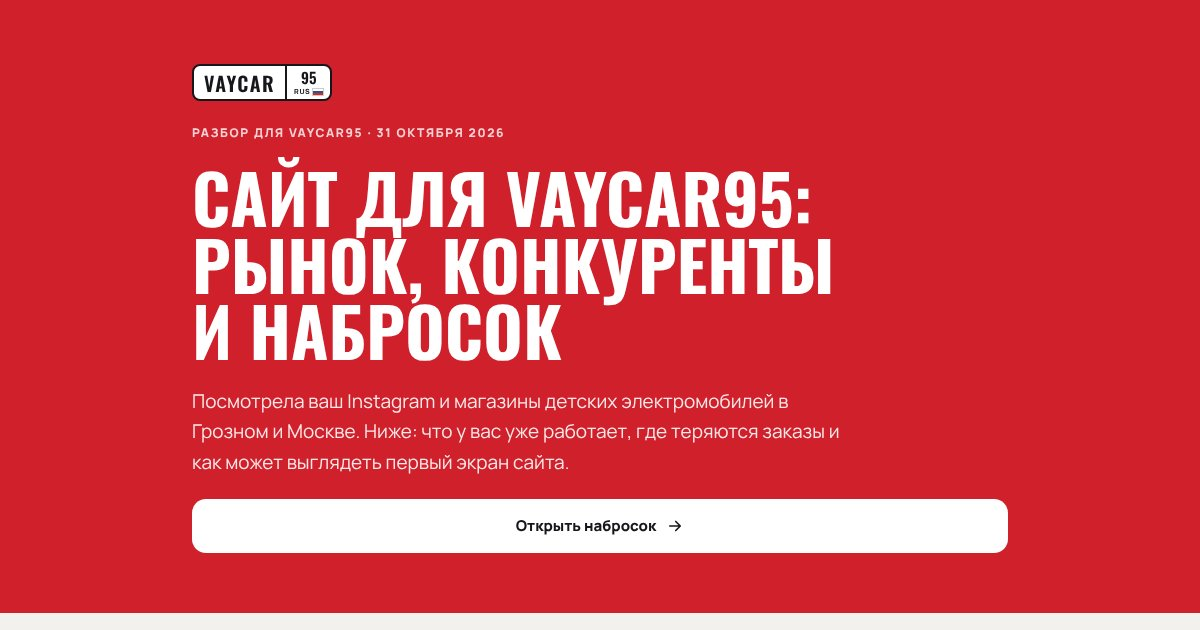
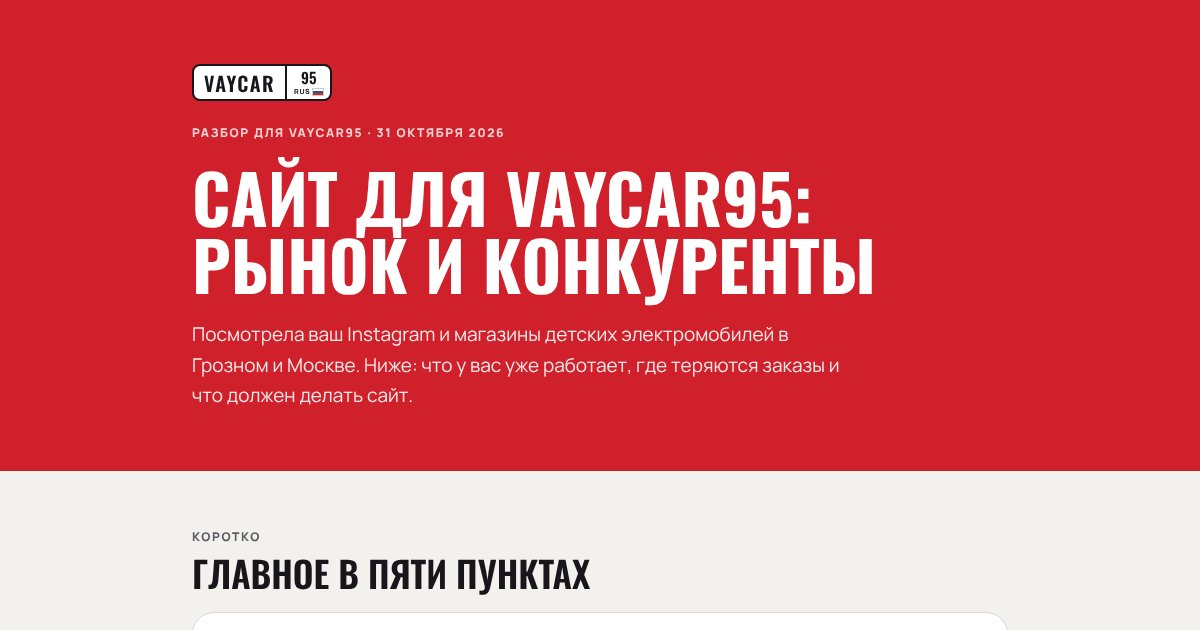
VAYCAR95: разбор без блока наброска
Claude-Session: https://claude.ai/code/session_01MqcZMETWujHNmBaq4CjhWq

Changed region(s): [[0.0, 0.7238, 1.0, 0.9952], [0.1542, 0.3619, 0.74, 0.6937]]

diff --git a/vaycar95/analiz.html b/vaycar95/analiz.html
@@ -3,10 +3,10 @@
 <head>
 <meta charset="utf-8">
 <meta name="viewport" content="width=device-width,initial-scale=1,viewport-fit=cover">
-<meta name="description" content="Разбор для VAYCAR95: сильные стороны, конкуренты, задачи сайта и вопросы">
+<meta name="description" content="Разбор для VAYCAR95: сильные стороны, как выбирают электромобиль, конкуренты, задачи сайта и вопросы">
 <meta property="og:type" content="website">
-<meta property="og:title" content="Сайт для VAYCAR95: рынок, конкуренты и набросок">
-<meta property="og:description" content="Разбор для VAYCAR95: сильные стороны, конкуренты, задачи сайта и вопросы">
+<meta property="og:title" content="Сайт для VAYCAR95: рынок и конкуренты">
+<meta property="og:description" content="Разбор для VAYCAR95: сильные стороны, как выбирают электромобиль, конкуренты, задачи сайта и вопросы">
 <meta property="og:image" content="https://mmaemi77-ctrl.github.io/Prototipfly/vaycar95/og-analiz.jpg">
 <meta property="og:image:width" content="1200">
 <meta property="og:image:height" content="630">
@@ -159,9 +159,8 @@ footer b{font-family:var(--display);font-weight:600;letter-spacing:.08em}
   <div class="wrap">
     <span class="plate" aria-label="VAYCAR95"><span class="num">VAYCAR</span><span class="reg"><b>95</b><small>RUS<i class="flag"></i></small></span></span>
     <div class="eyebrow">Разбор для VAYCAR95 · 31 октября 2026</div>
-    <h1>Сайт для VAYCAR95: рынок, конкуренты и набросок</h1>
-    <p>Посмотрела ваш Instagram и магазины детских электромобилей в Грозном и Москве. Ниже: что у вас уже работает, где теряются заказы и как может выглядеть первый экран сайта.</p>
-    <a class="btn light" href="https://mmaemi77-ctrl.github.io/Prototipfly/vaycar95/" target="_blank" rel="noopener">Открыть набросок <svg viewBox="0 0 24 24" fill="none" stroke="currentColor" stroke-width="2.2" stroke-linecap="round" stroke-linejoin="round" aria-hidden="true"><path d="M5 12h14M13 6l6 6-6 6"/></svg></a>
+    <h1>Сайт для VAYCAR95: рынок и конкуренты</h1>
+    <p>Посмотрела ваш Instagram и магазины детских электромобилей в Грозном и Москве. Ниже: что у вас уже работает, где теряются заказы и что должен делать сайт.</p>
   </div>
 </div>
 
@@ -320,18 +319,6 @@ footer b{font-family:var(--display);font-weight:600;letter-spacing:.08em}
     </div>
   </section>
 
-  <section>
-    <div class="eyebrow">Набросок</div>
-    <h2>Главный экран и&nbsp;структура</h2>
-    <div class="draft">
-      <ul>
-        <li><b>Главный экран к Новому году</b><span>Отсчёт до праздника, цена крупно в кружке на фото, ваши LX600, G65, Wrangler, квадроцикл 007 и SL300, подбор подарка</span></li>
-        <li><b>Путь заказа</b><span>От рилс в Instagram до готового заказа в WhatsApp за 4 шага</span></li>
-        <li><b>Структура из 12 блоков</b><span>Подбор, новогодняя подборка, каталог, скидки и розыгрыши, рассрочка, доставка, отзывы, шоурум, гарантия, вопросы, контакты</span></li>
-      </ul>
-      <a class="btn red" style="justify-self:start" href="https://mmaemi77-ctrl.github.io/Prototipfly/vaycar95/" target="_blank" rel="noopener">Открыть главный экран</a>
-    </div>
-  </section>
 
   <section>
     <div class="eyebrow">Идеи</div>
